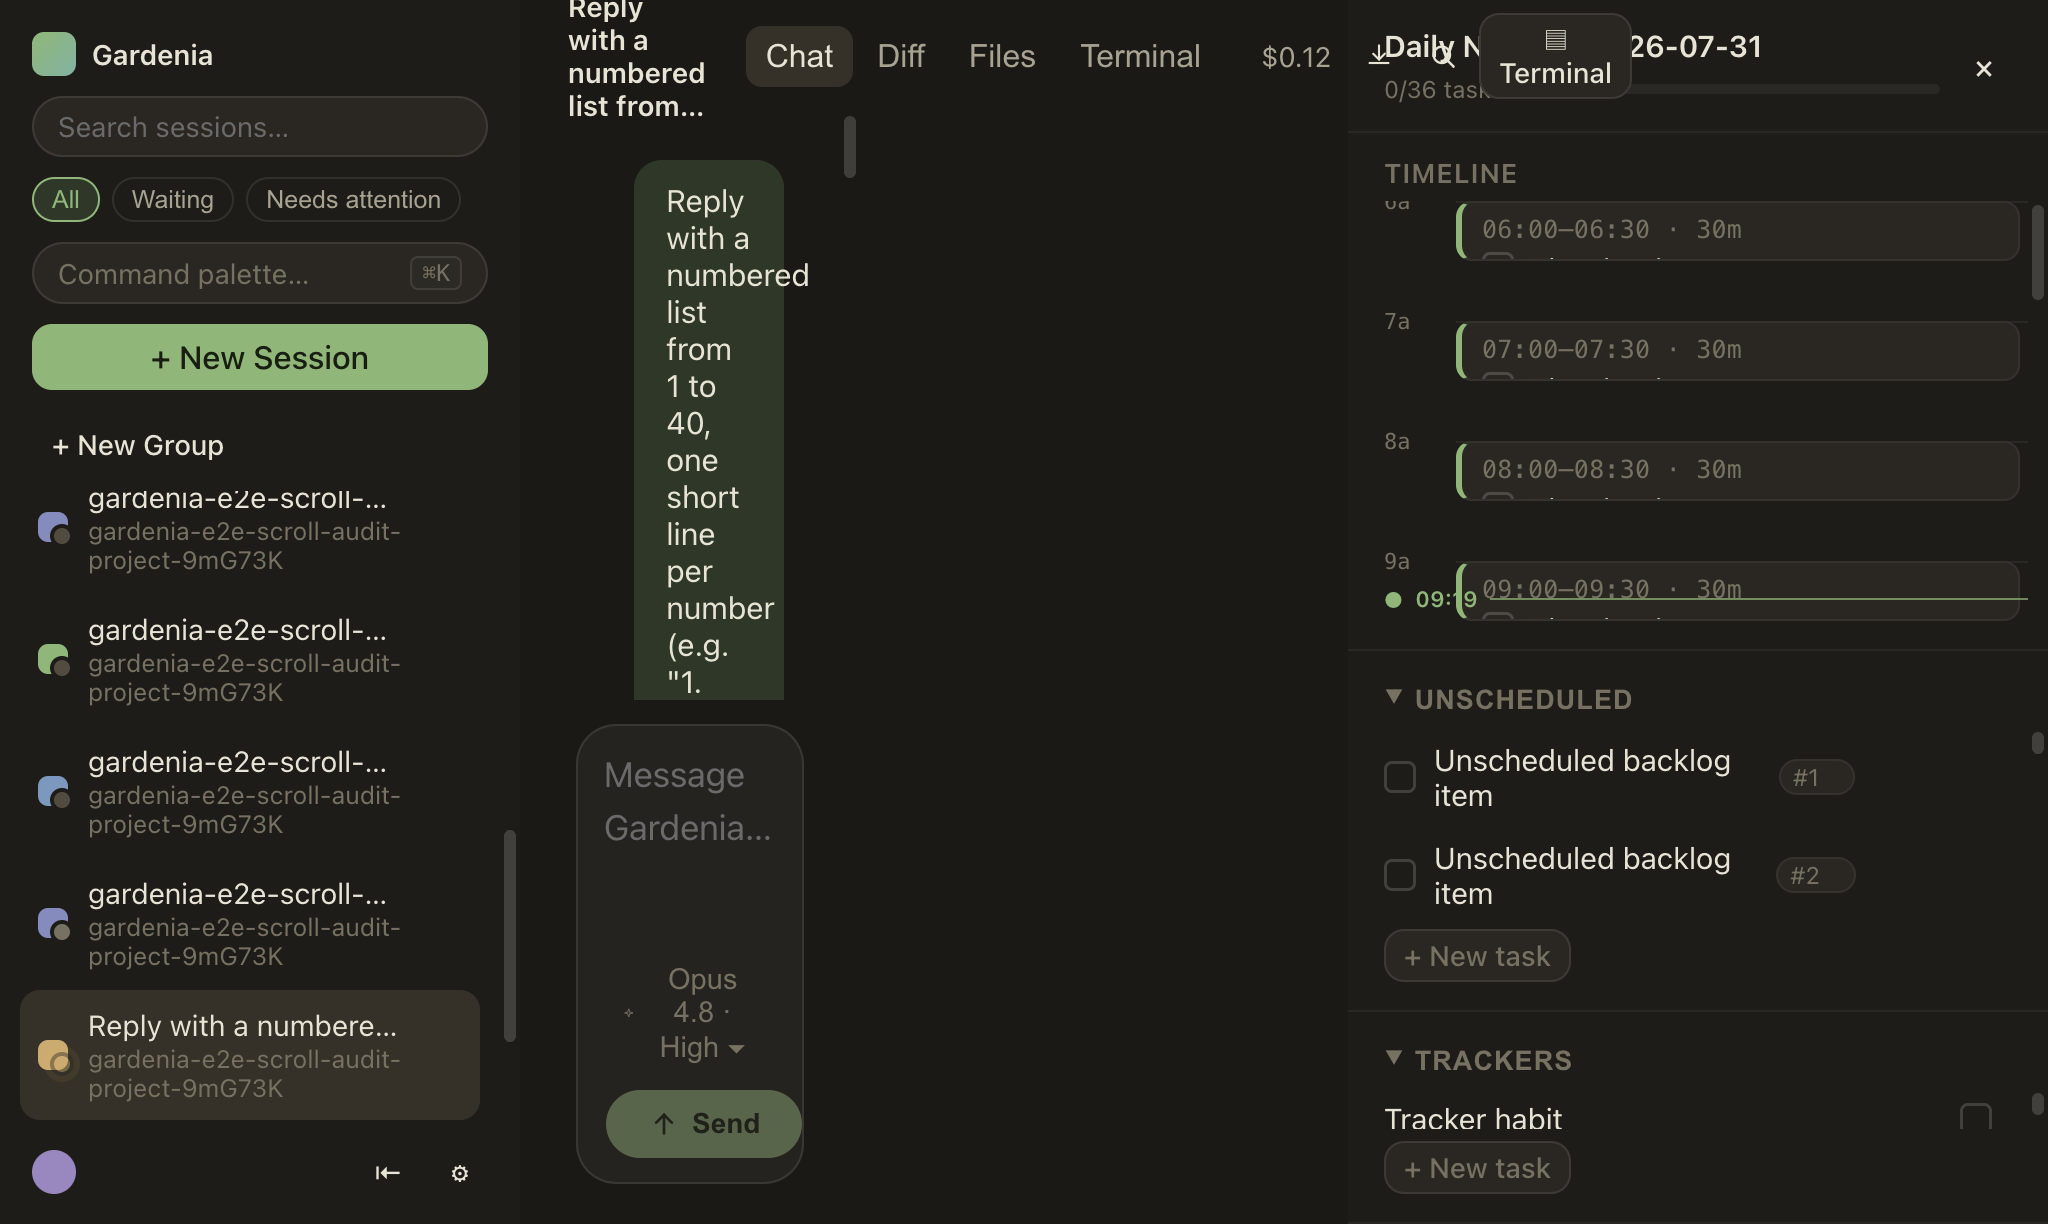
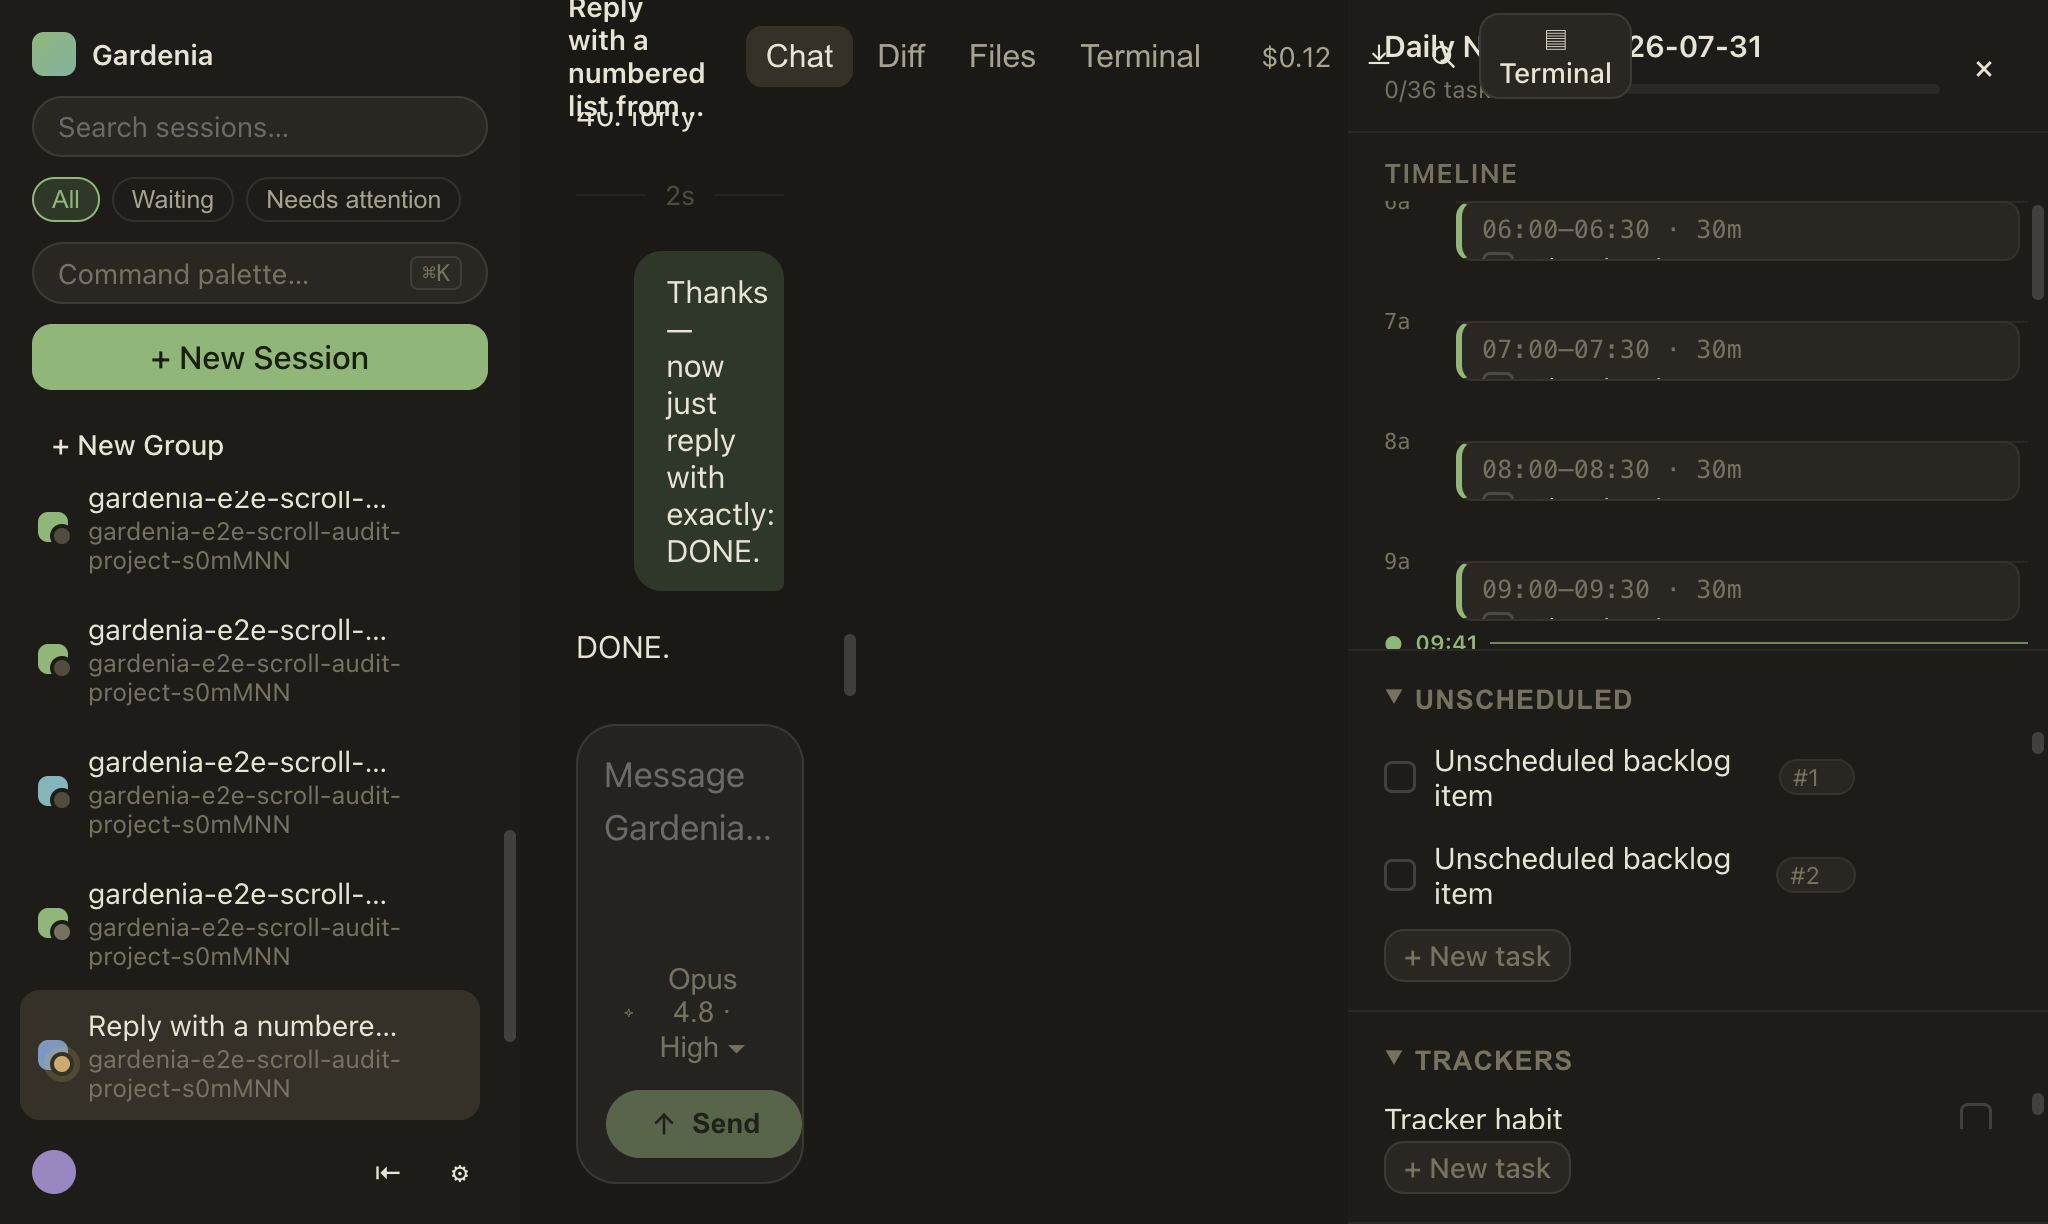
Fix transcript missing auto-scroll-to-bottom on new messages
ChatTranscript.tsx rendered the scrollable .transcript container with no
DOM ref and no effect reacting to appended/streamed content, so scrollTop
never moved when new turns arrived, leaving them rendered below the
visible viewport. Add a container ref, an onScroll-tracked "near bottom"
flag, and a useLayoutEffect keyed on `messages` that scrolls to bottom
only when the user hadn't scrolled up to read history (standard chat-UI
stick-to-bottom pattern).

Fixes the repro in e2e/audit-scroll-experience.spec.ts ("transcript:
overflow-y auto, and auto-scroll-to-bottom behavior on new real
messages"), documented as Finding 4 of the audit-window-resize-layout-
integrity audit.

diff --git a/src/renderer/src/components/chat/ChatTranscript.tsx b/src/renderer/src/components/chat/ChatTranscript.tsx
@@ -1,4 +1,4 @@
-import { Fragment, useEffect, useRef } from 'react'
+import { Fragment, useEffect, useLayoutEffect, useRef } from 'react'
 import type { MessageRecord } from '../../../../shared/session-types'
 import type { PromptDecision } from '../../../../shared/session-types'
 import { parseStructuredContent, type ToolCallContent } from '../../../../shared/chat-content'
@@ -258,8 +258,36 @@ export default function ChatTranscript({
     el?.scrollIntoView({ block: 'center' })
   }, [query, activeMatchIndex, totalMatches])
 
+  // Auto-scroll-to-bottom (standard chat-UI pattern): the transcript follows
+  // new content — including streamed deltas patched into the last message's
+  // content, which change `messages`' identity via useSessions' immutable
+  // setState — as long as the user was already at (or very near) the
+  // bottom. If they've scrolled up to read history, we never yank the view
+  // out from under them; `isNearBottomRef` is kept current by the `onScroll`
+  // handler below on every real scroll event (including the programmatic
+  // ones this effect itself performs), so it always reflects the position
+  // as of just before the latest render.
+  const containerRef = useRef<HTMLDivElement>(null)
+  const isNearBottomRef = useRef(true)
+  const NEAR_BOTTOM_THRESHOLD_PX = 48
+
+  useLayoutEffect(() => {
+    const el = containerRef.current
+    if (!el) return
+    if (isNearBottomRef.current) {
+      el.scrollTop = el.scrollHeight
+    }
+  }, [messages])
+
+  function handleScroll(): void {
+    const el = containerRef.current
+    if (!el) return
+    const distanceFromBottom = el.scrollHeight - el.clientHeight - el.scrollTop
+    isNearBottomRef.current = distanceFromBottom <= NEAR_BOTTOM_THRESHOLD_PX
+  }
+
   return (
-    <div className="transcript" data-testid="transcript">
+    <div className="transcript" data-testid="transcript" ref={containerRef} onScroll={handleScroll}>
       {rows}
     </div>
   )
